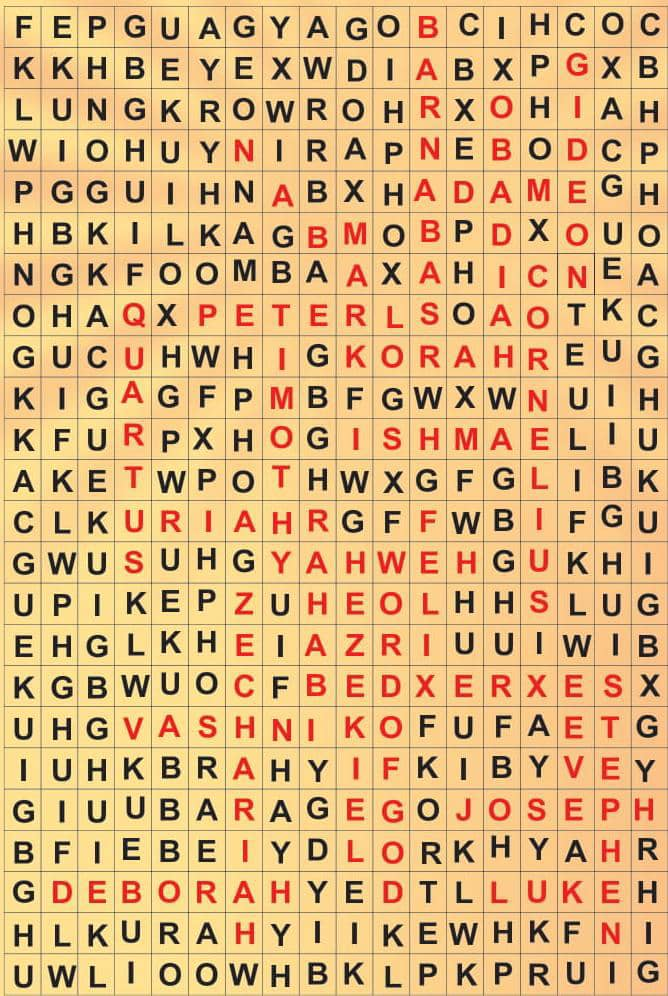
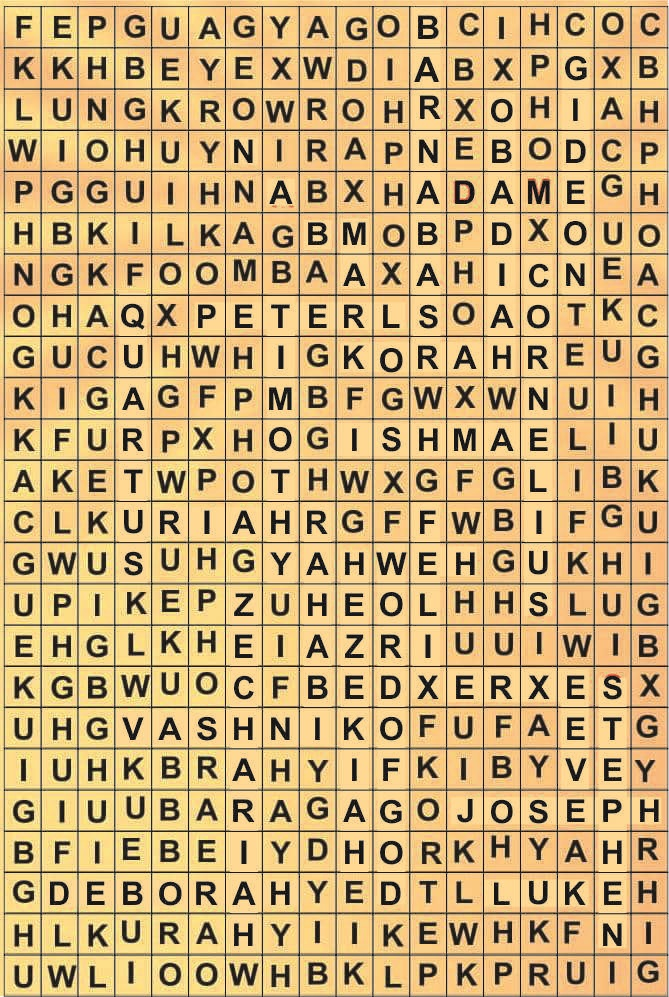
puzzle game changed
Puzzle game answers were changed to black

Changed region(s): [[0.0, 0.0, 1.0, 1.0], [0.0, 0.0311, 0.0299, 0.0934]]

diff --git a/sw.js b/sw.js
@@ -1,5 +1,5 @@
-const staticCacheName = 'site-static-v4';
-const dynamicCacheName = 'site-dynamic-v4';
+const staticCacheName = 'site-static-v5';
+const dynamicCacheName = 'site-dynamic-v5';
 const assets = [
   '/',
   '/index.html',
